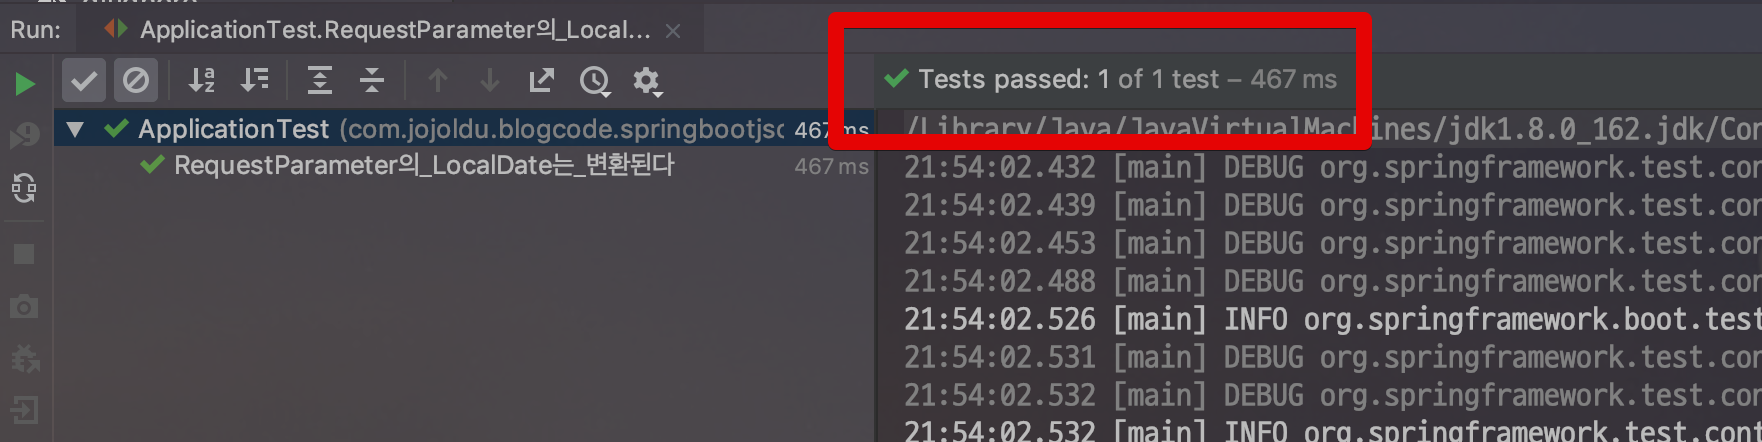
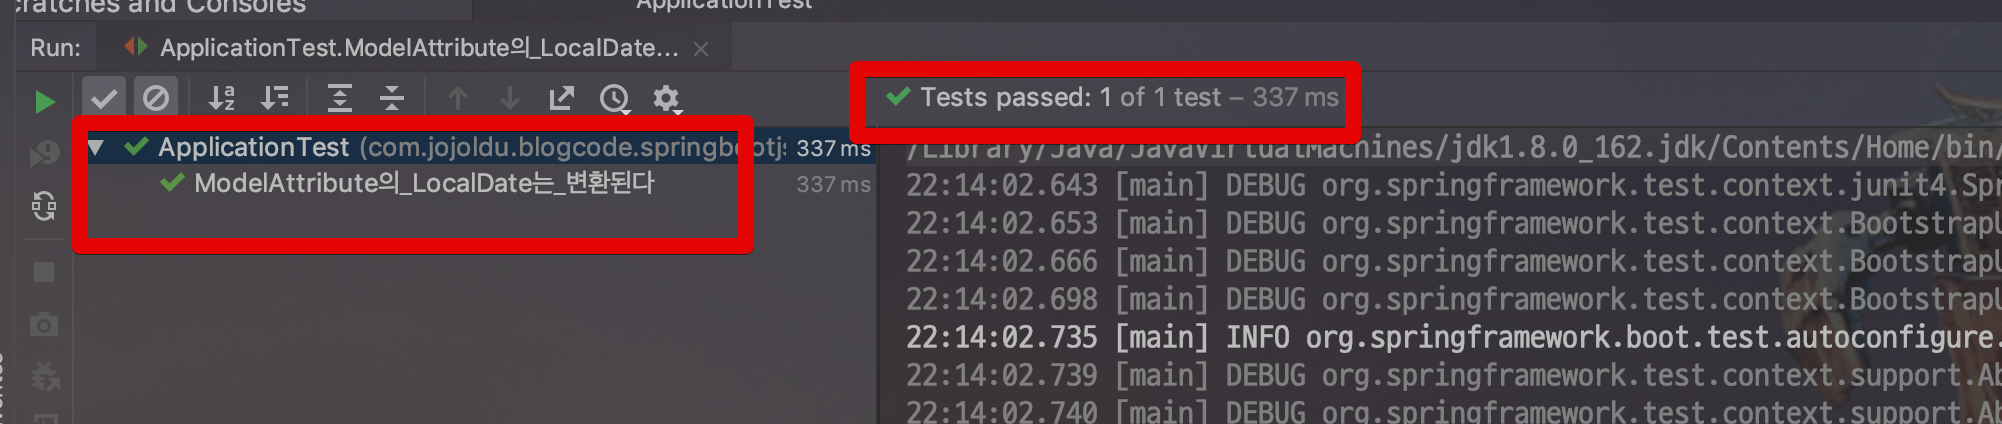
1,2장 내용 설명 중

Changed region(s): [[0.0, 0.0, 1.0, 1.0]]

diff --git a/springboot-json/README.md b/springboot-json/README.md
@@ -4,3 +4,118 @@
 모든 코드는 [Github](https://github.com/jojoldu/blog-code/tree/master/springboot-json)에 있기 때문에 함께 보시면 더 이해하기 쉬우실 것 같습니다.  
 (공부한 내용을 정리하는 [Github](https://github.com/jojoldu/blog-code)와 세미나+책 후기를 정리하는 [Github](https://github.com/jojoldu/review), 이 모든 내용을 담고 있는 [블로그](http://jojoldu.tistory.com/)가 있습니다. )<br/>
  
+## 1. Request Parameter
+
+```java
+@GetMapping("/get")
+public String get(GetModel getModel) {
+    log.info("get 요청 데이터 = {}", getModel);
+
+    return "get 성공";
+}
+```
+
+```java
+    @Test
+    public void ModelAttribute의_LocalDate는_변환된다() throws Exception {
+        //given
+        String url = "/get?name=jojoldu&requestDateTime=2018-12-15T10:00:00";
+
+        //when
+        ResultActions resultActions = this.mockMvc.perform(get(url));
+
+        //then
+        resultActions
+                .andExpect(status().isOk())
+                .andExpect(content().string(containsString("get 성공")));
+
+    }
+```
+
+![1](./images/1.png)
+
+![2-1](./images/2-1.png)
+
+```java
+@ToString
+@Getter
+@Setter
+@NoArgsConstructor
+public class GetModel {
+    private String name;
+
+    @JsonFormat(shape = JsonFormat.Shape.STRING, pattern = "yyyy-MM-dd'T'HH:mm:ss", timezone = "Asia/Seoul")
+    private LocalDateTime requestDateTime;
+}
+```
+
+![2-2](./images/2-2.png)
+
+
+자 그럼 어떻게 해야할까요?  
+여기서 해결할 수 있는 방법은 바로 ```@DateTimeFormat```입니다.  
+
+
+```java
+
+@ToString
+@Getter
+@Setter
+@NoArgsConstructor
+public class GetModel {
+    private String name;
+
+    @DateTimeFormat(pattern = "yyyy-MM-dd'T'HH:mm:ss")
+    private LocalDateTime requestDateTime;
+}
+```
+
+![2-3](./images/2-3.png)
+
+
+
+```java
+    @Test
+    public void requestParameter의_LocalDate는_변환된다() throws Exception {
+        //given
+        String url = "/requestParameter?requestDateTime=2018-12-15T10:00:00";
+
+        //when
+        ResultActions resultActions = this.mockMvc.perform(get(url));
+
+        //then
+        resultActions
+                .andExpect(status().isOk())
+                .andExpect(content().string(containsString("requestParameter 성공")));
+
+    }
+}
+```
+
+## @DateTimeFormat vs @JsonFormat
+
+자 그럼 여기서 한가지 궁금한게 있습니다.  
+바로 ```@JsonFormat```과 ```@DateTimeFormat```의 차이입니다.  
+ ```@JsonFormat```은 Jackson의 어노테이션이고, ```@DateTimeFormat```은 Spring의 어노테이션입니다.  
+
+ ```@JsonFormat```은 ```LocalDate``` 혹은 ```LocalDateTime```을 JSON으로 직렬화하는 동안 포맷을 관리합니다.  
+  
+Spring의 기본 JSON 컨버터는 Jackson이다보니, **JSON으로 변환을 할때는 항상 Jackson을 통해서**만 진행됩니다.  
+
+![jackson](./images/jackson.png)
+
+Jackson은 Spring의 어노테이션인 ```@DateTimeFormat``` 을 전혀 알 수 없습니다.  
+(완전히 별개의 라이브러리들이니깐요.)  
+  
+그래서 ```@DateTimeFormat```을 지정했다 하더라도, Jackson은 이 어노테이션은 전혀 고려하지 않고 JSON 직렬화을 진행하기 때문에 효과가 없는 것입니다.  
+  
+반대로 **JSON 직렬화외에는 Jackson이 사용되지 않기 때문에** ```@JsonFormat```은 효과가 없습니다.  
+그래서 RequestParameter나 ModelAttribute에선 ```@DateTimeFormat``` 만 적용될 수 있습니다.  
+
+* [stackoverflow](https://stackoverflow.com/questions/37871033/spring-datetimeformat-configuration-for-java-time)
+
+
+## 2. Request Body
+
+
+## 3. Response Body
